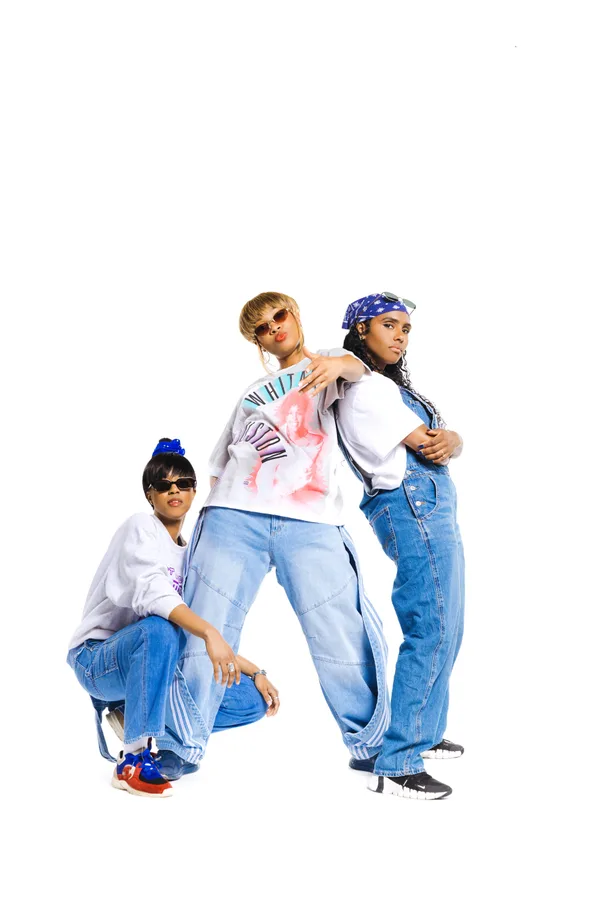
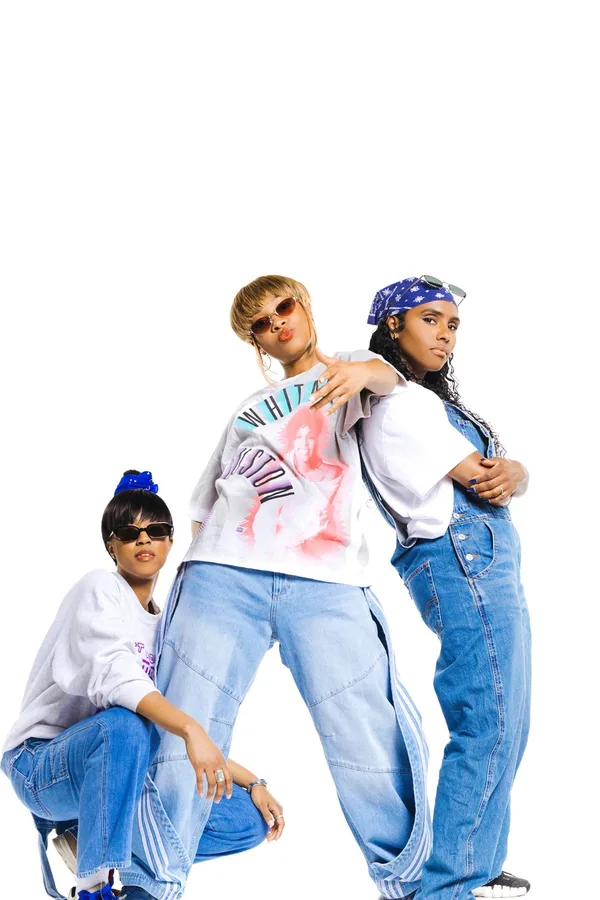
VISUAL-OK-1440: fix: letterboxed regional posters + shelf placement + no ranks on tryout page (user feedback)
- portraitCardFromKeyArt: trim borders; portrait sources get a tight
  attention crop; landscape/square title-art gets CONTAIN over a blurred
  darkened self-background (letterbox) so titles are never amputated
  ('BLACK SWAN'→'BLAC SWA' class). All four broken posters regenerated.
- Shelf moved below Best of the West End (lower placement per user).
- hideRanks browse-config option; the tryout page is a catalog, not a
  ranking — left-hand numbers removed.

diff --git a/scripts/fetch-show-images-auto.js b/scripts/fetch-show-images-auto.js
@@ -261,6 +261,35 @@ async function downloadImageDirect(url) {
 // /images/shows/<id>/ paths (the persist step keeps those verbatim).
 // ---------------------------------------------------------------------------
 
+/**
+ * Portrait card (poster/thumbnail) from arbitrary key art. Venue og:images
+ * are usually landscape title-art; a straight 2:3 attention-crop amputates
+ * the title ("BLACK SWAN" → "BLAC SWA", user report 2026-07-12). Strategy:
+ *   - trim uniform borders (white-background promo shoots read as whitespace
+ *     in small cards otherwise);
+ *   - portrait-ish source (w/h ≤ 0.85) → tight cover/attention crop;
+ *   - landscape/square source → CONTAIN the full art over a blurred,
+ *     darkened cover of itself (the standard letterbox-poster treatment) so
+ *     no text is ever cut.
+ */
+async function portraitCardFromKeyArt(sharpLib, buffer, w, h, quality) {
+  let src = buffer;
+  try {
+    const trimmed = await sharpLib(buffer).trim({ threshold: 25 }).toBuffer({ resolveWithObject: true });
+    // Only adopt the trim when it kept a meaningful image (guards against
+    // aggressive trims of low-contrast art collapsing to slivers).
+    if (trimmed.info.width > 200 && trimmed.info.height > 200) src = trimmed.data;
+  } catch { /* keep original */ }
+  const meta = await sharpLib(src).metadata();
+  const ratio = (meta.width || 1) / (meta.height || 1);
+  if (ratio <= 0.85) {
+    return sharpLib(src).resize(w, h, { fit: 'cover', position: 'attention' }).webp({ quality }).toBuffer();
+  }
+  const bg = await sharpLib(src).resize(w, h, { fit: 'cover' }).blur(30).modulate({ brightness: 0.5, saturation: 1.15 }).toBuffer();
+  const fg = await sharpLib(src).resize(w - 24, h - 24, { fit: 'inside' }).toBuffer();
+  return sharpLib(bg).composite([{ input: fg, gravity: 'centre' }]).webp({ quality }).toBuffer();
+}
+
 async function fetchFromRegionalVenue(show, verifyCtx) {
   let sharpLib;
   try { sharpLib = require('sharp'); } catch { console.log('   ⚠ sharp unavailable — cannot process regional venue images'); return null; }
@@ -336,8 +365,8 @@ async function fetchFromRegionalVenue(show, verifyCtx) {
       const outputBase = dryRunMode ? DRY_RUN_DIR : IMAGES_DIR;
       const dir = path.join(outputBase, show.id);
       fs.mkdirSync(dir, { recursive: true });
-      await sharpLib(buffer).resize(600, 900, { fit: 'cover', position: 'attention' }).webp({ quality: 82 }).toFile(path.join(dir, 'poster.webp'));
-      await sharpLib(buffer).resize(300, 450, { fit: 'cover', position: 'attention' }).webp({ quality: 80 }).toFile(path.join(dir, 'thumbnail.webp'));
+      fs.writeFileSync(path.join(dir, 'poster.webp'), await portraitCardFromKeyArt(sharpLib, buffer, 600, 900, 82));
+      fs.writeFileSync(path.join(dir, 'thumbnail.webp'), await portraitCardFromKeyArt(sharpLib, buffer, 300, 450, 80));
       await sharpLib(buffer).resize(1600, 1000, { fit: 'cover', position: 'attention' }).webp({ quality: 82 }).toFile(path.join(dir, 'hero.webp'));
       console.log(`   ✓ regional images written (poster/thumbnail/hero) from ${src.label}${dryRunMode ? ' [dry-run dir]' : ''}`);
       return { ...localPaths, _source: `regional-venue:${src.label}` };

diff --git a/src/app/page.tsx b/src/app/page.tsx
@@ -269,12 +269,6 @@ export default function HomePage() {
 
   const featuredRows: FeaturedRowData[] = [
     { title: 'Best Off-Broadway', shows: bestOffBroadwayList, viewAllHref: '/off-broadway' },
-    // Pre-Broadway tryouts — differentiating coverage nobody else aggregates;
-    // grouped with the market shelves at the top. Closed tryouts included by
-    // design (the score IS the pre-Broadway signal). Spread-gated on the
-    // regional flag so a flag-off build emits nothing (not even the row title
-    // in the RSC payload) — the /browse page and /show pages 404 when off.
-    ...(featureFlags.regional ? [{ title: 'Pre-Broadway: Out-of-Town Shows', shows: preBroadwayList, viewAllHref: '/browse/pre-broadway-out-of-town-shows', minCount: 2 }] : []),
     // Opera shelf \u2014 Met universe is small (3-4 productions running), so minCount 2.
     // Positioned right after Off-Broadway so opera coverage is visible without
     // scrolling past 3 sections (acceptance criterion on Notion 362637c5-416f-8183).
@@ -287,6 +281,12 @@ export default function HomePage() {
     { title: 'Most Sold Out', shows: mostSoldOutList, viewAllHref: '/box-office' },
     { title: 'Shows Starting Soon', shows: startingSoonList, viewAllHref: '/browse/upcoming-broadway-shows' },
     { title: 'Best of the West End', shows: bestWestEndList, viewAllHref: '/west-end' },
+    // Pre-Broadway tryouts — differentiating coverage nobody else aggregates;
+    // lower-shelf placement per user (2026-07-12). Closed tryouts included by
+    // design (the score IS the pre-Broadway signal). Spread-gated on the
+    // regional flag so a flag-off build emits nothing (not even the row title
+    // in the RSC payload) — the /browse page and /show pages 404 when off.
+    ...(featureFlags.regional ? [{ title: 'Pre-Broadway: Out-of-Town Shows', shows: preBroadwayList, viewAllHref: '/browse/pre-broadway-out-of-town-shows', minCount: 2 }] : []),
     { title: 'Tony Winning Shows', shows: tonyWinnersShows, viewAllHref: '/browse/tony-winners-on-broadway' },
     { title: 'Perfect for Date Night', shows: dateNightShowsList, viewAllHref: '/browse/broadway-shows-for-date-night' },
     { title: 'Great for Kids', shows: kidsShowsList, viewAllHref: '/browse/broadway-shows-for-kids' },

diff --git a/src/config/browse-pages.ts b/src/config/browse-pages.ts
@@ -33,6 +33,8 @@ export interface BrowsePageConfig {
   dataFilter?: (show: ComputedShow, ctx: BrowseFilterContext) => boolean; // Data-dependent filter (used instead of filter when defined)
   customSort?: (shows: ComputedShow[], ctx: BrowseFilterContext) => ComputedShow[]; // Mutually exclusive with sort
   sort?: 'score' | 'opening-date' | 'opening-date-asc' | 'closing-date' | 'title' | 'performances';
+  /** Suppress the left-hand rank badges — for pages that are a catalog, not a ranking. */
+  hideRanks?: boolean;
   limit?: number;
   relatedPages: string[]; // Slugs of related browse pages
   source?: 'broadway' | 'west-end' | 'off-broadway' | 'off-west-end' | 'regional'; // Data source (default: broadway)
@@ -254,6 +256,7 @@ export const BROWSE_PAGES: Record<string, BrowsePageConfig> = {
       return (b.openingDate || '').localeCompare(a.openingDate || '');
     }),
     source: 'regional',
+    hideRanks: true, // catalog of tryouts, not a ranking — no left-hand numbers
     sectionGroup: (show) => {
       if (show.status === 'open' || show.status === 'previews') return 'On Stage Now';
       if (show.transferredTo) return 'Transferred to Broadway';

diff --git a/src/app/browse/[slug]/page.tsx b/src/app/browse/[slug]/page.tsx
@@ -238,7 +238,7 @@ export default function BrowsePage({ params }: { params: { slug: string } }) {
         {/* Interactive Show List */}
         <BrowseListClient
           shows={serializedShows}
-          showRanks={config.limit !== 1 && config.sort !== 'opening-date-asc' && config.sort !== 'opening-date' && config.sort !== 'closing-date'}
+          showRanks={!config.hideRanks && config.limit !== 1 && config.sort !== 'opening-date-asc' && config.sort !== 'opening-date' && config.sort !== 'closing-date'}
           isMixedType={isMixedType}
           isMixedStatus={isMixedStatus}
           defaultSort={config.customSort ? 'custom' : (config.sort || 'score')}
